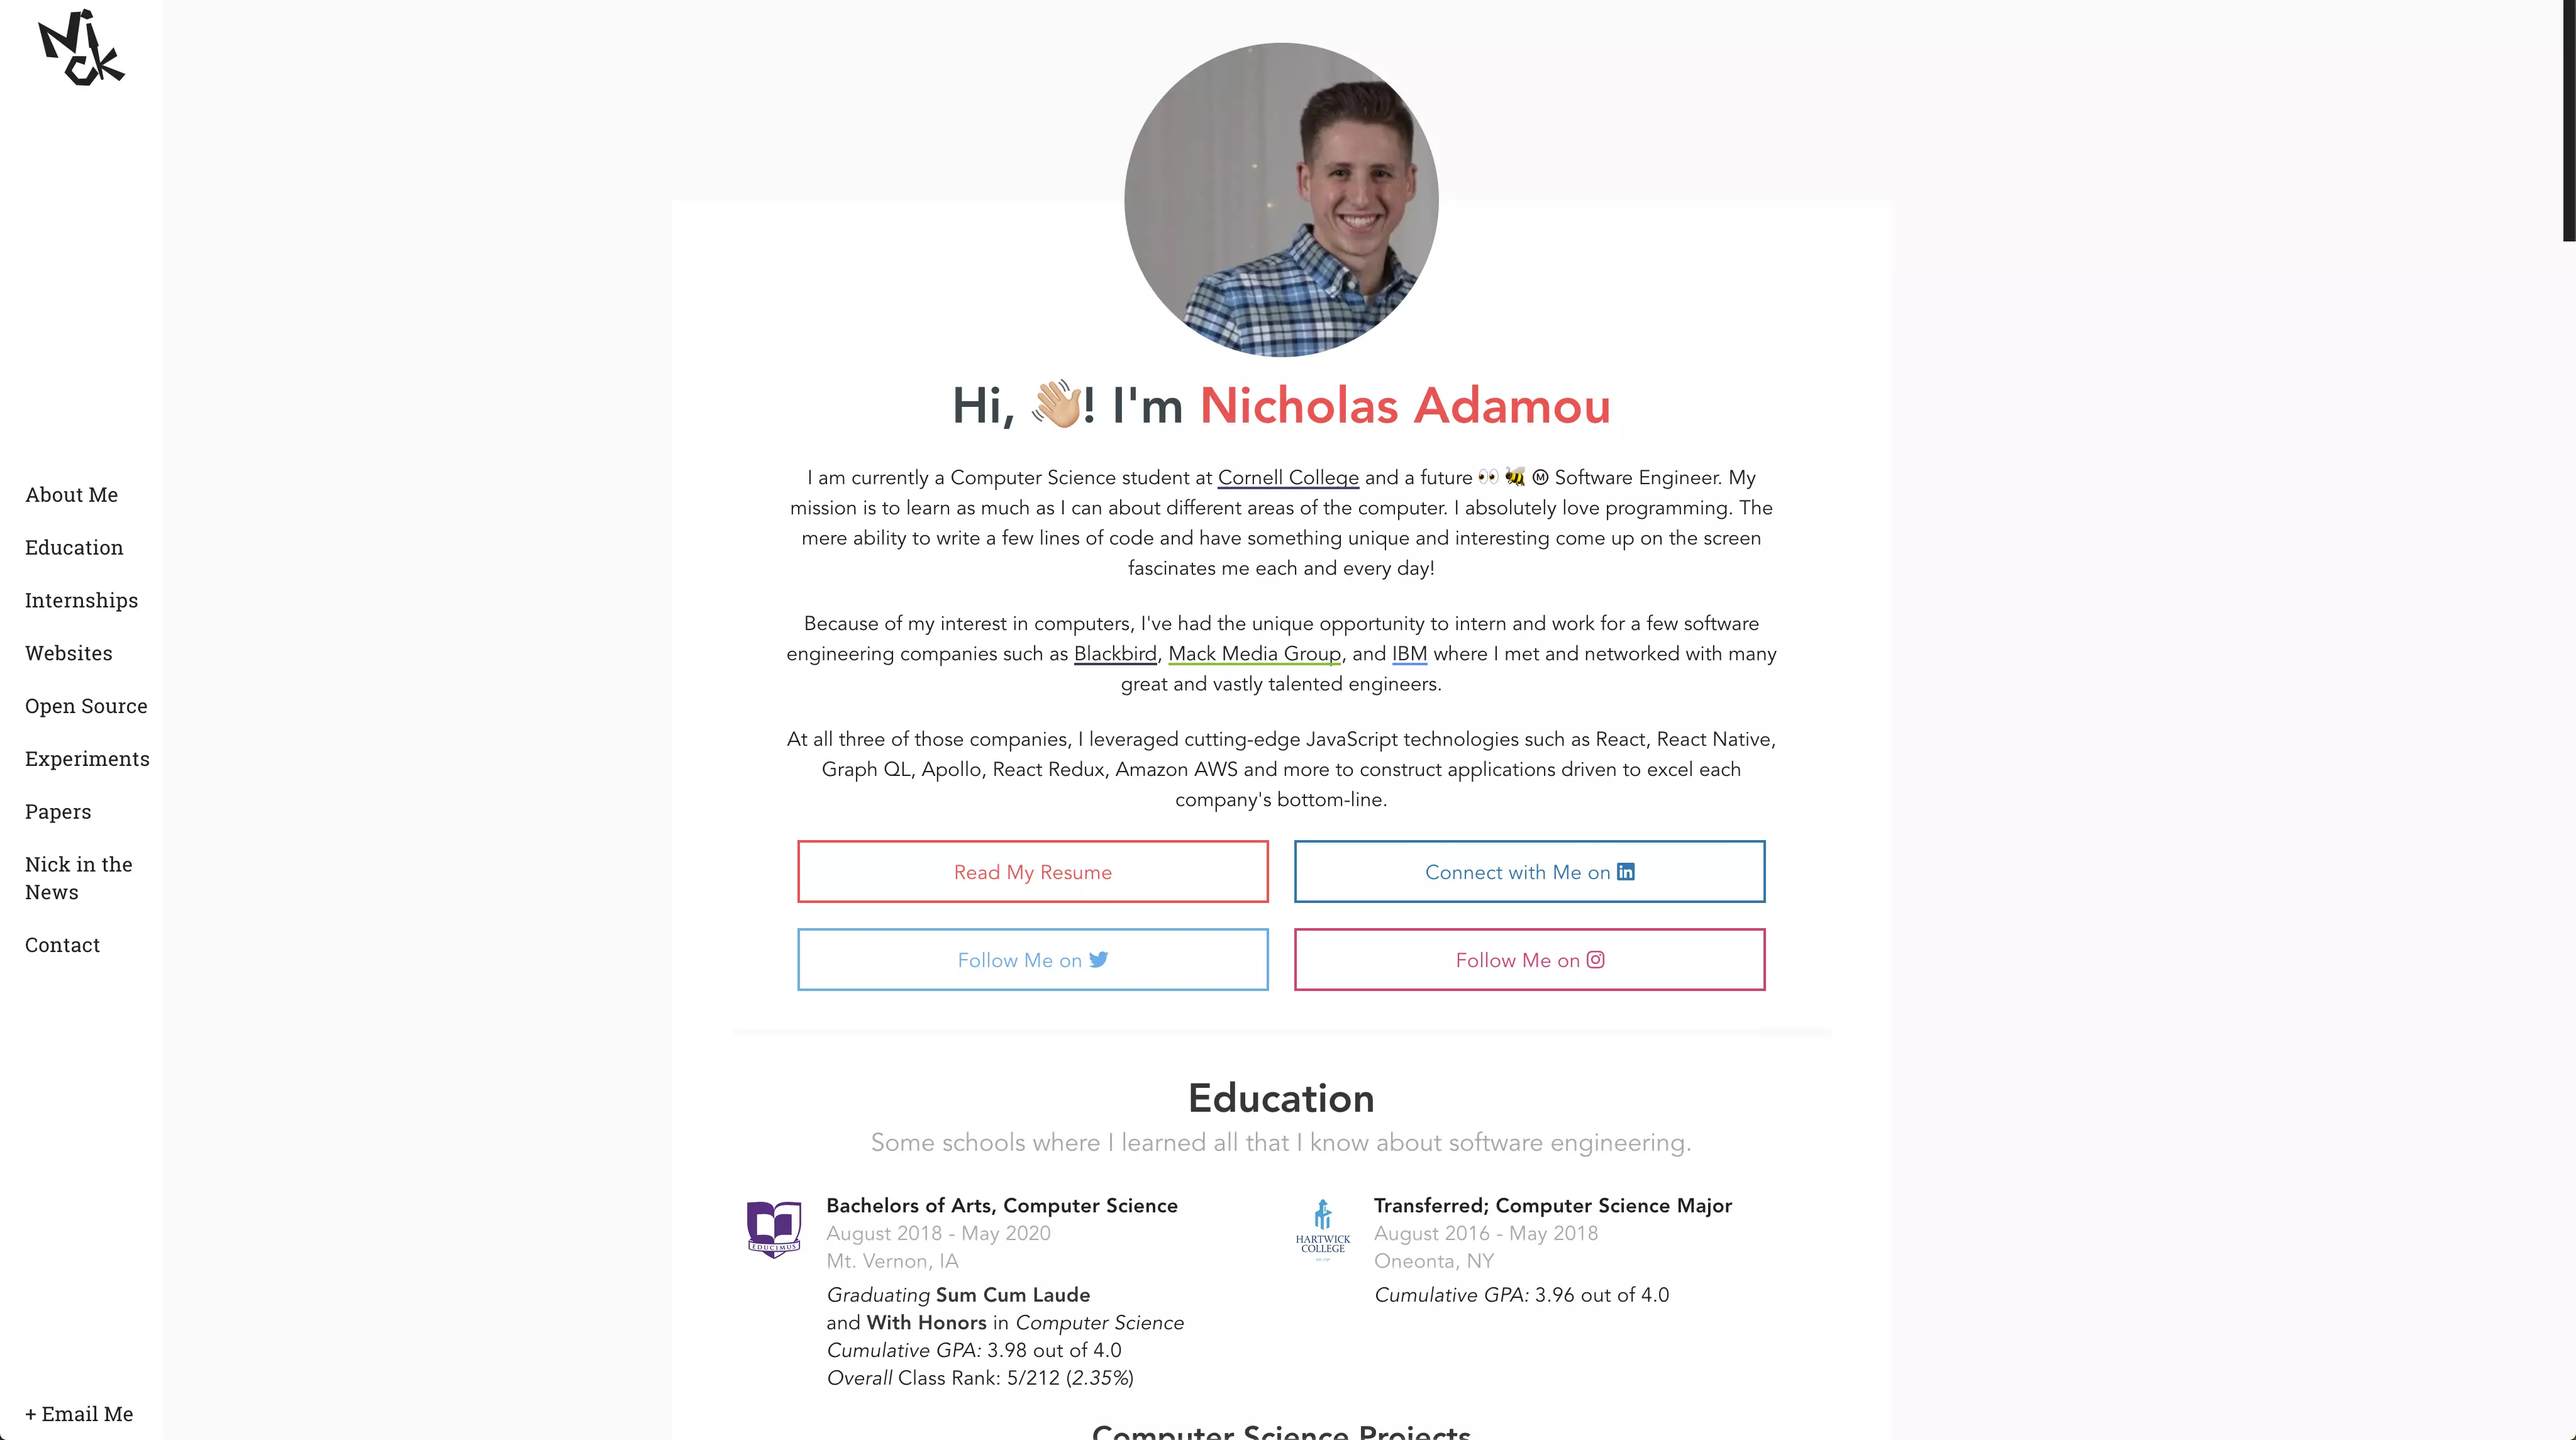
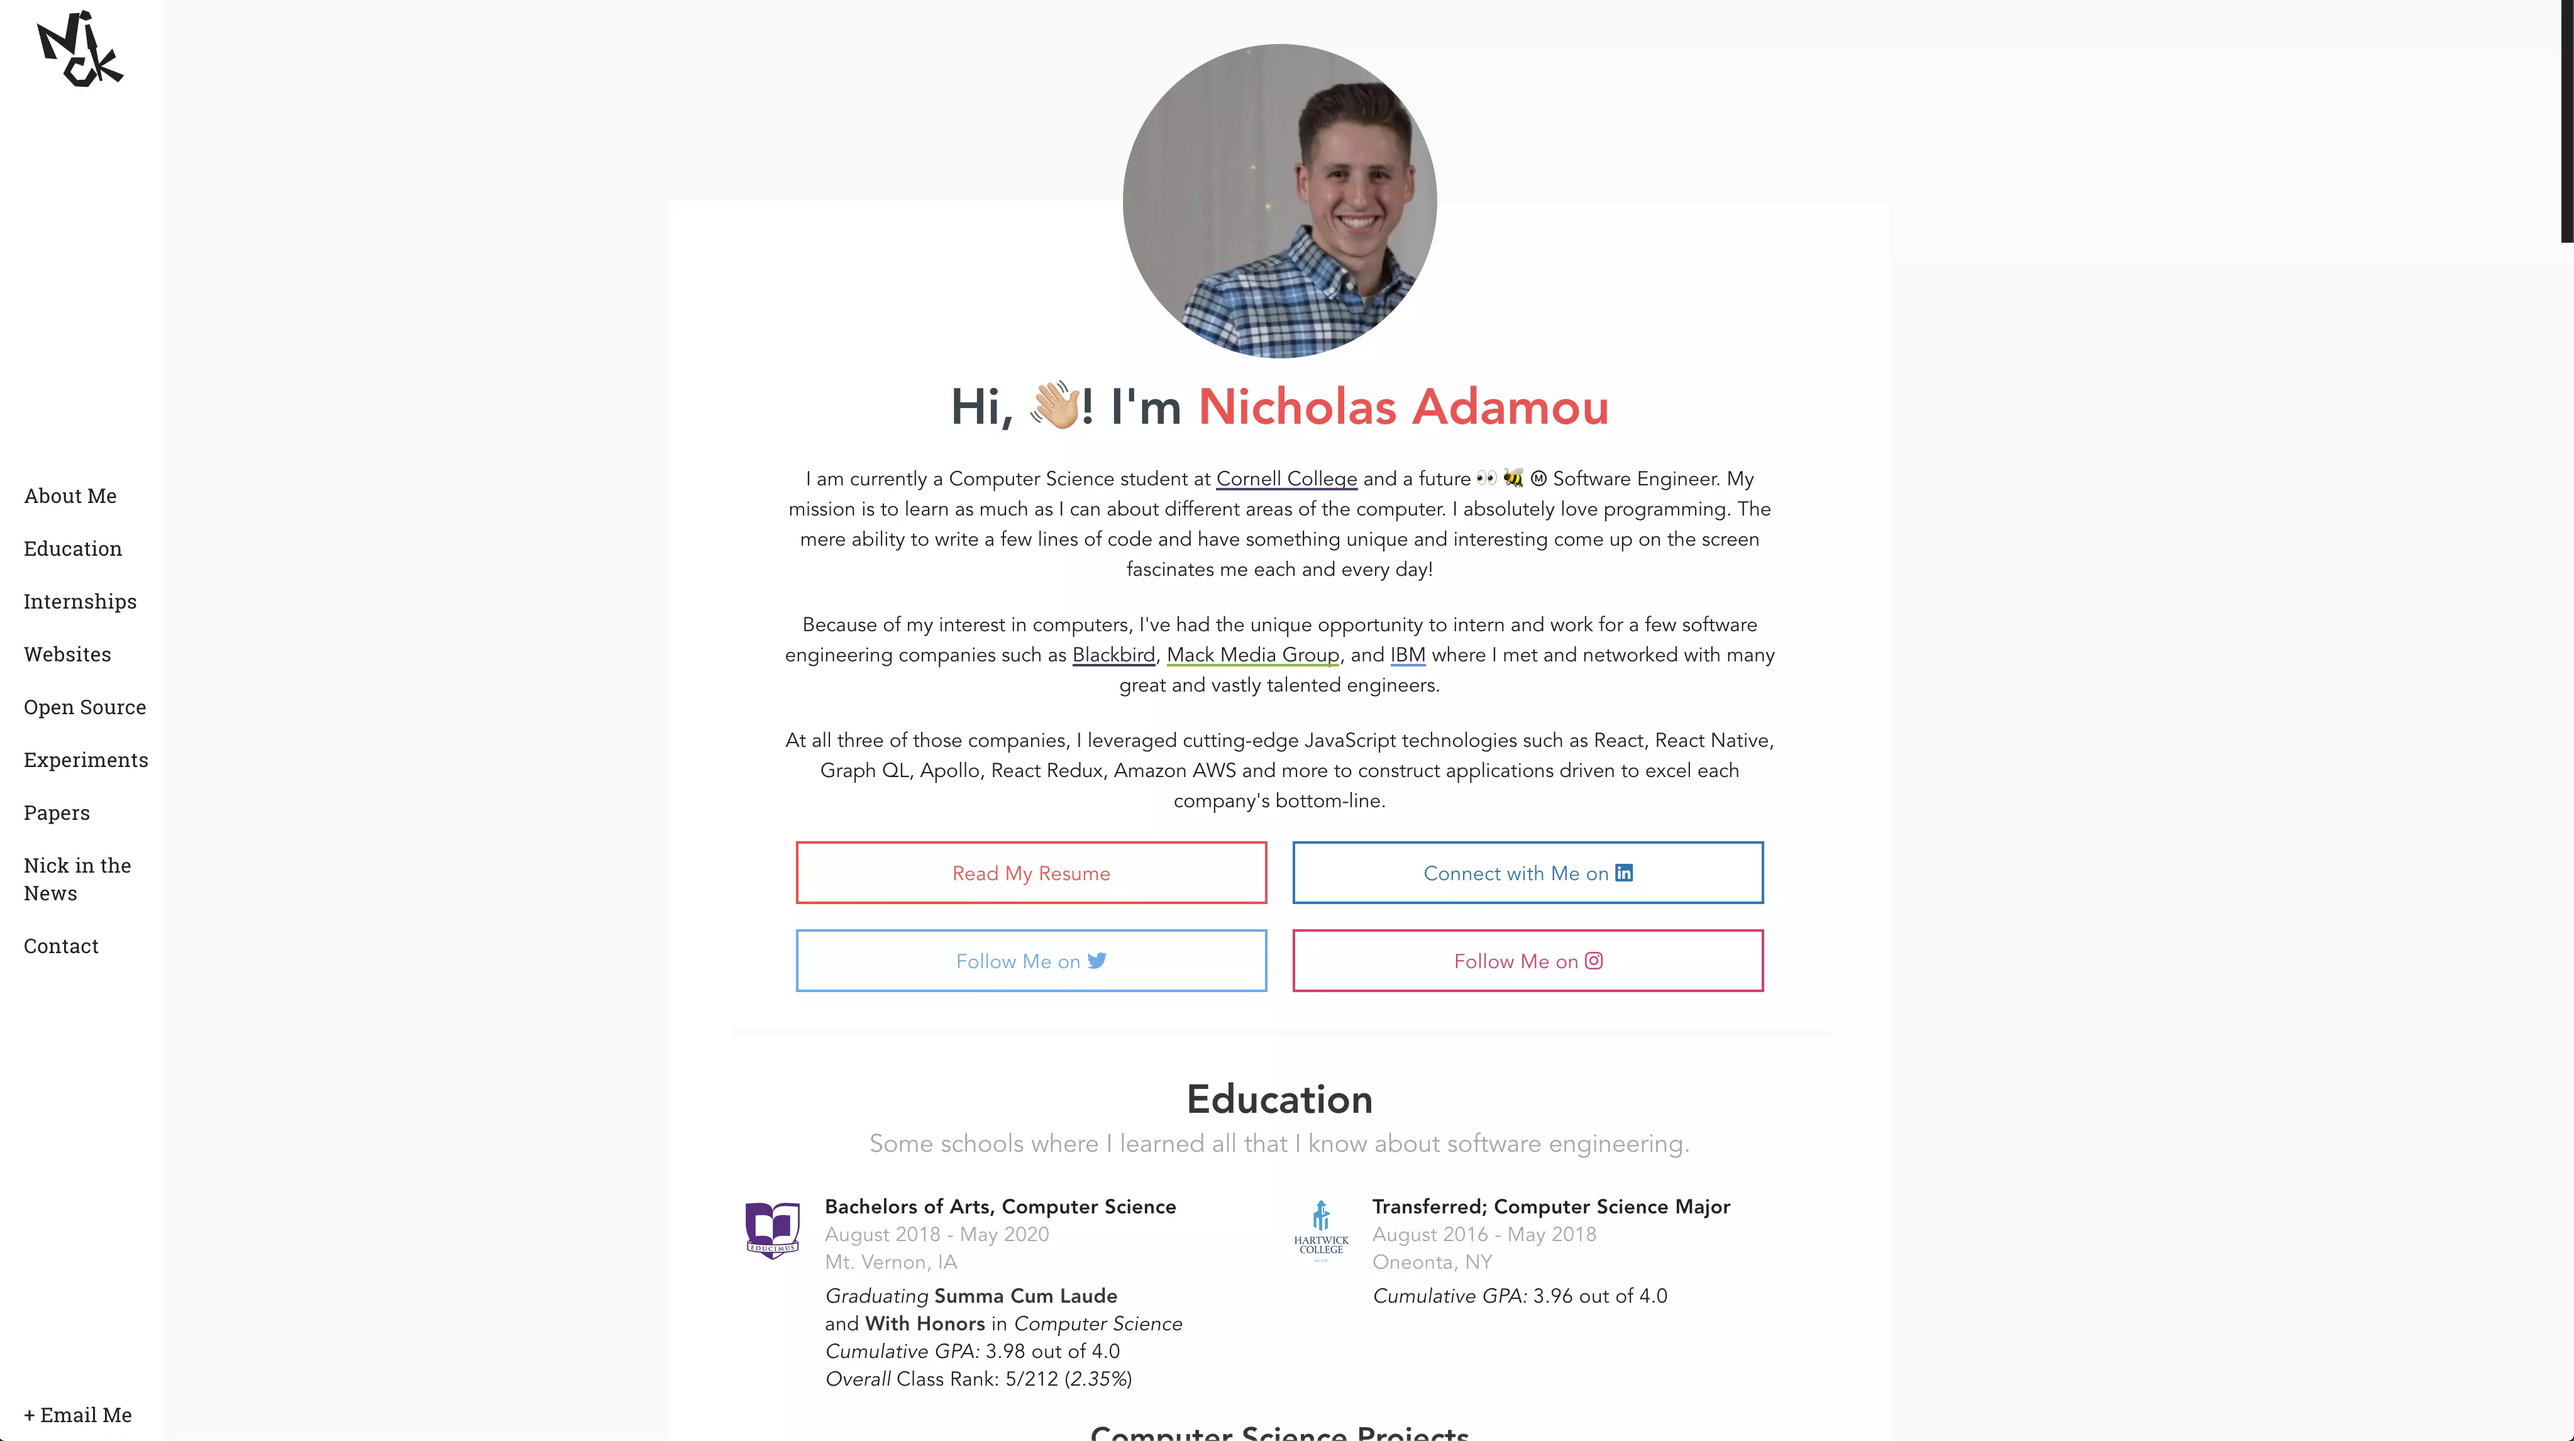
fixed a typo

diff --git a/src/sections/Education/Education.js b/src/sections/Education/Education.js
@@ -177,7 +177,7 @@ class Education extends React.Component {
             "August 2018 - May 2020",
             () => (
               <>
-                <em>Graduating </em> <strong>Sum Cum Laude</strong>
+                <em>Graduating </em> <strong>Summa Cum Laude</strong>
                 <br />
                 {" and "}
                 <strong>With Honors</strong>
